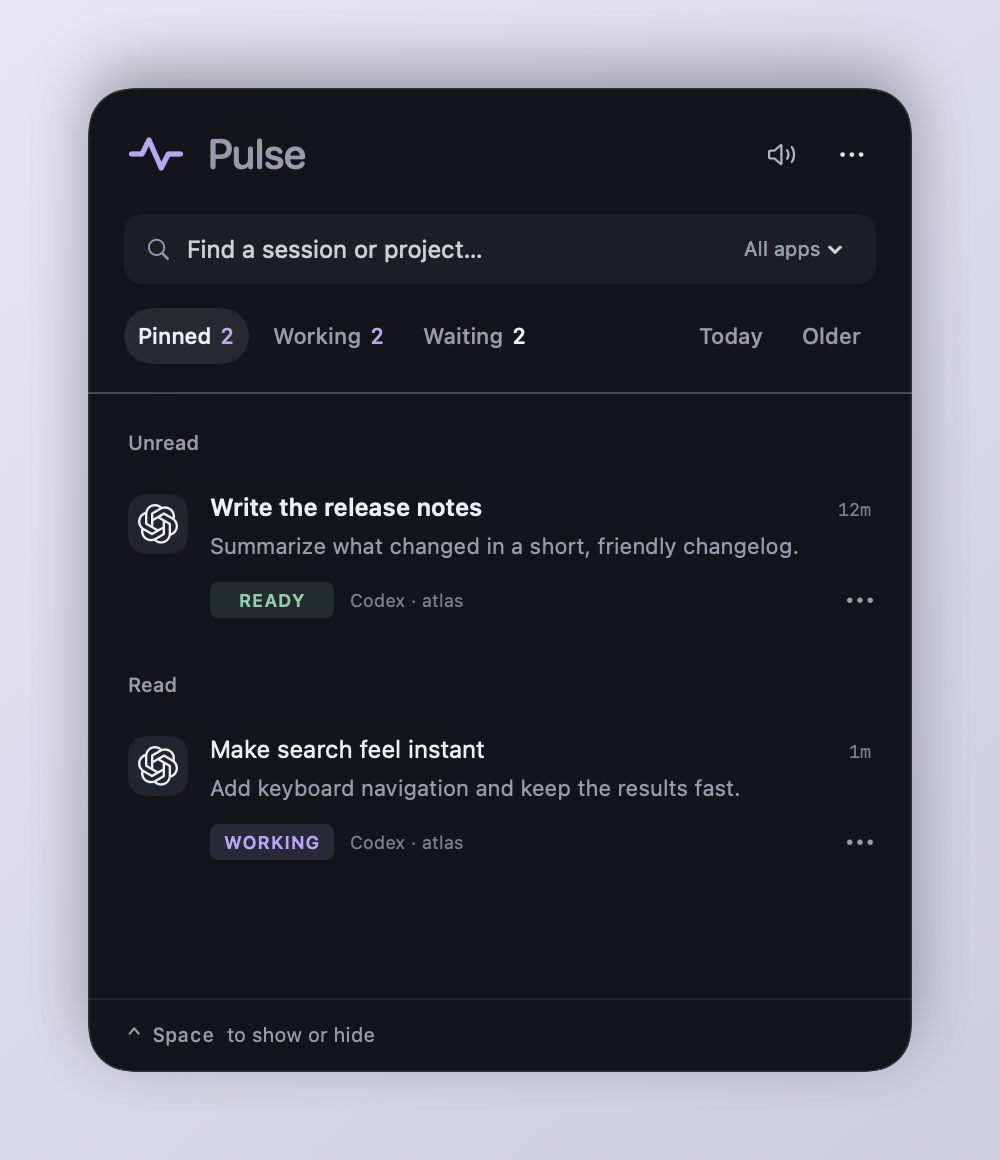
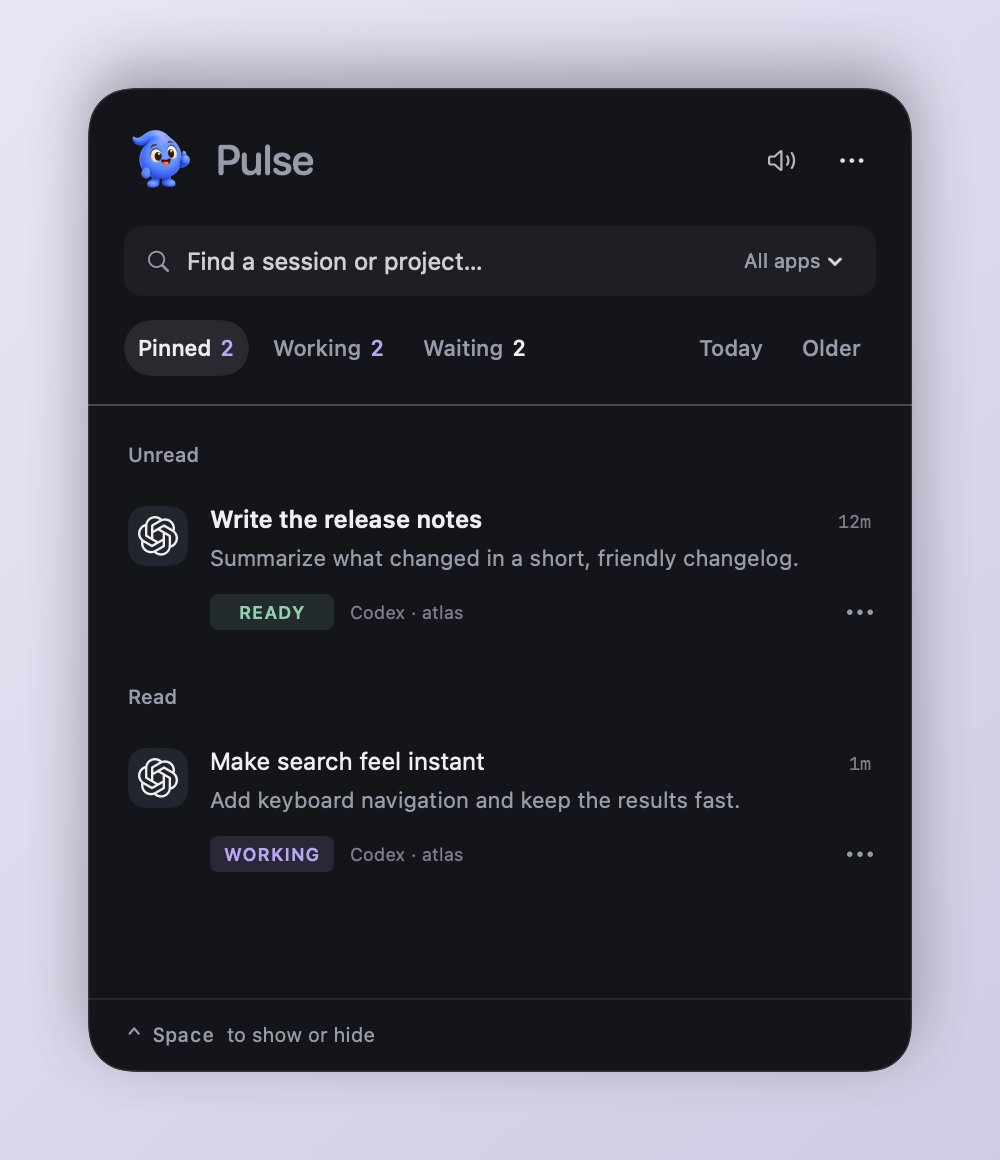
Replace Pulse waveform branding with blue comet mascot

diff --git a/scripts/make-icon.swift b/scripts/make-icon.swift
@@ -4,8 +4,18 @@ import Foundation
 let root = URL(fileURLWithPath: FileManager.default.currentDirectoryPath)
 let output = root.appendingPathComponent("build/AppIcon.iconset")
 try FileManager.default.createDirectory(at: output, withIntermediateDirectories: true)
-let logoURL = root.appendingPathComponent("Sources/Pulse/Resources/Logos/pulse-mark.svg")
-guard let logo = NSImage(contentsOf: logoURL) else { fatalError("Missing Pulse logo") }
+let logoURL = root.appendingPathComponent("Sources/Pulse/Resources/Comet/comet-poses.png")
+guard let atlas = NSImage(contentsOf: logoURL) else { fatalError("Missing Pulse mascot") }
+let side = atlas.size.width / 3
+let logo = NSImage(size: NSSize(width: side, height: atlas.size.height), flipped: false) { destination in
+    atlas.draw(in: destination, from: NSRect(x: side * 2, y: 0, width: side, height: atlas.size.height),
+               operation: .sourceOver, fraction: 1, respectFlipped: true, hints: [.interpolation: NSImageInterpolation.high])
+    return true
+}
+// Export the same pose for the README, directly from the bundled sprite cell.
+let logoBitmap = NSBitmapImageRep(data: logo.tiffRepresentation!)!
+try logoBitmap.representation(using: .png, properties: [:])!
+    .write(to: root.appendingPathComponent("docs/images/pulse-logo.png"))
 logo.isTemplate = false
 for size in [16, 32, 128, 256, 512] {
     for scale in [1, 2] {
@@ -19,7 +29,7 @@ for size in [16, 32, 128, 256, 512] {
         context.cgContext.scaleBy(x: CGFloat(pixels) / 1024, y: CGFloat(pixels) / 1024)
         NSColor(red: 20/255, green: 21/255, blue: 26/255, alpha: 1).setFill()
         NSBezierPath(roundedRect: NSRect(x: 100, y: 100, width: 824, height: 824), xRadius: 184, yRadius: 184).fill()
-        logo.draw(in: NSRect(x: 222, y: 295, width: 580, height: 435))
+        logo.draw(in: NSRect(x: 172, y: 172, width: 680, height: 680))
         NSGraphicsContext.restoreGraphicsState()
         let suffix = scale == 2 ? "@2x" : ""
         try bitmap.representation(using: .png, properties: [:])!

diff --git a/Sources/Pulse/BrandArtwork.swift b/Sources/Pulse/BrandArtwork.swift
@@ -1,7 +1,7 @@
 import AppKit
 import SwiftUI
 
-/// Bundled provider artwork and the app's original waveform mark.
+/// Bundled provider artwork.
 enum BrandArtwork {
     private static let resources: Bundle = {
         if let url = Bundle.main.url(forResource: "Pulse_Pulse", withExtension: "bundle"),
@@ -10,7 +10,7 @@ enum BrandArtwork {
     }()
     private static let images: [String: NSImage] = {
         var result: [String: NSImage] = [:]
-        for name in ["claude", "cursor-light", "cursor-dark", "openai-light", "openai-dark", "pulse-mark"] {
+        for name in ["claude", "cursor-light", "cursor-dark", "openai-light", "openai-dark"] {
             if let url = resources.url(forResource: name, withExtension: "svg", subdirectory: "Logos"),
                let image = NSImage(contentsOf: url) {
                 image.isTemplate = false
@@ -28,9 +28,8 @@ enum BrandArtwork {
 
 struct PulseLogo: View {
     var body: some View {
-        if let image = BrandArtwork.image("pulse-mark") {
-            Image(nsImage: image).resizable().renderingMode(.original).scaledToFit()
-                .accessibilityLabel("Pulse")
-        }
+        Image(nsImage: CometPoseAtlas.image(.ready))
+            .resizable().renderingMode(.original).interpolation(.high).scaledToFit()
+            .accessibilityLabel("Pulse")
     }
 }

diff --git a/Sources/Pulse/App.swift b/Sources/Pulse/App.swift
@@ -400,8 +400,8 @@ final class AppDelegate: NSObject, NSApplicationDelegate, NSWindowDelegate {
     }
     private func createMenu() {
         statusItem = NSStatusBar.system.statusItem(withLength: NSStatusItem.variableLength)
-        if let image = BrandArtwork.image("pulse-mark")?.copy() as? NSImage {
-            image.size = NSSize(width: 22, height: 15)
+        if let image = CometPoseAtlas.image(.ready).copy() as? NSImage {
+            image.size = NSSize(width: 20, height: 20)
             statusItem.button?.image = image
         }
         statusItem.button?.toolTip = "Pulse"

diff --git a/Sources/Pulse/ShelfView.swift b/Sources/Pulse/ShelfView.swift
@@ -191,7 +191,7 @@ struct ShelfView: View {
     private var header: some View {
         HStack(alignment: .center, spacing: 12) {
             HStack(spacing: 12) {
-                PulseLogo().frame(width: 28, height: 21)
+                PulseLogo().frame(width: 32, height: 32)
                 Text("Pulse").font(BrandArtwork.titleFont(size: 21))
                     .tracking(-0.4).foregroundStyle(Ink.muted).fixedSize()
                 Spacer()

diff --git a/Sources/Pulse/CometArtwork.swift b/Sources/Pulse/CometArtwork.swift
@@ -36,7 +36,7 @@ struct CometArtwork: View {
 }
 
 @MainActor
-private enum CometPoseAtlas {
+enum CometPoseAtlas {
     static let poses: [NSImage] = {
         guard let url = Bundle.module.url(forResource: "comet-poses", withExtension: "png", subdirectory: "Comet"),
               let atlas = NSImage(contentsOf: url) else { return [] }

diff --git a/Sources/Pulse/Resources/Logos/SOURCES.md b/Sources/Pulse/Resources/Logos/SOURCES.md
@@ -10,4 +10,4 @@ SVG intrinsic dimensions are normalized for native rendering; path geometry is u
 
 ## Pulse mark
 
-`pulse-mark.svg` is an original waveform mark created for this app. The app uses native macOS system fonts; no custom fonts are bundled.
+The blue comet mascot is generated artwork created for Pulse. Its three poses are bundled in `../Comet/comet-poses.png`. The thumbs-up pose is used for the app icon and logo. The app uses native macOS system fonts; no custom fonts are bundled.

diff --git a/README.md b/README.md
@@ -1,5 +1,5 @@
 <p align="center">
-  <img src="Sources/Pulse/Resources/Logos/pulse-mark.svg" width="64" height="48" alt="Pulse waveform">
+  <img src="docs/images/pulse-logo.png" width="80" height="80" alt="Pulse mascot">
 </p>
 
 <h1 align="center">Pulse</h1>
